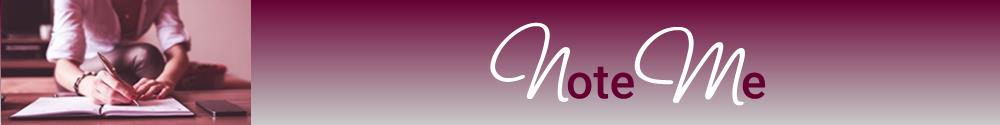
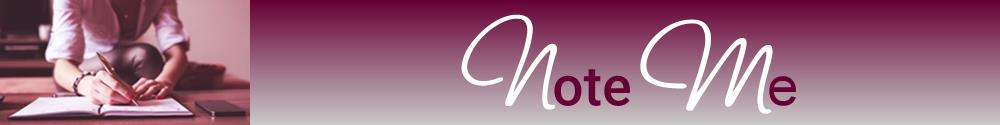
Design Report Generator angepasst + Header

diff --git a/war/Report.html b/war/Report.html
@@ -5,7 +5,7 @@
     <title>NoteMEReport</title>
     <script type="text/javascript" language="javascript" src="ReportGenerator/ReportGenerator.nocache.js"></script>
     <link type ="text/css" rel="stylesheet" href="IT_Projekt.css">
-     <link href="https://fonts.googleapis.com/css?family=Roboto" rel="stylesheet">
+    <link href="https://fonts.googleapis.com/css?family=Roboto" rel="stylesheet">
     <link href="https://fonts.googleapis.com/icon?family=Material+Icons"
       rel="stylesheet">
   </head>
@@ -19,13 +19,13 @@
       </div>
     </noscript>
     
+    
     <div id="layout">
-		<div id="header"><img src="Header.jpg"><h1>NoteME-Report</h1></div>
+		<div id="reportHeader"><img src="ReportHeader.jpg"></div>
 		<div id="menu"></div>
 		<div id="main"></div>
-		<!-- <div id="Details"></div>-->
+		<!--  <div id="Trailer">Copyright Gruppe 7 - Hochschule der Medien, Stuttgart</div> -->
 	</div>
-   
     
   </body>
 </html>

diff --git a/war/WEB-INF/Report.css b/war/WEB-INF/Report.css
@@ -186,11 +186,21 @@ div#menu {
 	margin-left: 33px;
 	position: absolute;
 	/* overflow: scroll; */
-	/* height: 300px;
-	height: 325px;*/
-	height: 350px;
+	/* height: 300px;*/
+	height: 325px;
 	width: 187px;
 	/*padding: 10px;*/
+	float: left;
+	font-color: #2E8B57;
+	background-color: #ffffff;
+	font-size: 17px;
+}
+
+div#menu2 {
+	margin-left: 33px;
+	position: absolute;
+	height: 325px;
+	width: 187px;
 	float: left;
 	font-color: #2E8B57;
 	background-color: #ffffff;

diff --git a/src/de/hdm_stuttgart/huber/itprojekt/client/ShowReportDemo.java b/src/de/hdm_stuttgart/huber/itprojekt/client/ShowReportDemo.java
@@ -54,27 +54,27 @@ public class ShowReportDemo extends MenuView {
 		home.setStyleName("pure-menu-heading");
 		home.getElement().getStyle().setColor("#ffffff");
 		
-		Anchor showUserNotebooks = new Anchor("UserNotebooks");
+		//Anchor showUserNotebooks = new Anchor("UserNotebooks");
 		Anchor showAllNotebooks = new Anchor("AllNotebooks");
-		Anchor showUserNotes = new Anchor("UserNotes");
+		//Anchor showUserNotes = new Anchor("UserNotes");
 		Anchor showAllNotes = new Anchor("AllNotes");
-		Anchor showUserPermissions = new Anchor("UserPermissions");
+		//Anchor showUserPermissions = new Anchor("UserPermissions");
 		Anchor showAllPermissions = new Anchor("AllPermissions");
 
-		showUserNotebooks.setStyleName("pure-menu-link");
-		menuList.add(new ListItemWidget(showUserNotebooks));
+//		showUserNotebooks.setStyleName("pure-menu-link");
+//		menuList.add(new ListItemWidget(showUserNotebooks));
 
 		showAllNotebooks.setStyleName("pure-menu-link");
 		menuList.add(new ListItemWidget(showAllNotebooks));
 
-		showUserNotes.setStyleName("pure-menu-link");
-		menuList.add(new ListItemWidget(showUserNotes));
+//		showUserNotes.setStyleName("pure-menu-link");
+//		menuList.add(new ListItemWidget(showUserNotes));
 
 		showAllNotes.setStyleName("pure-menu-link");
 		menuList.add(new ListItemWidget(showAllNotes));
 
-		showUserPermissions.setStyleName("pure-menu-link");
-		menuList.add(new ListItemWidget(showUserPermissions));
+//		showUserPermissions.setStyleName("pure-menu-link");
+//		menuList.add(new ListItemWidget(showUserPermissions));
 
 		showAllPermissions.setStyleName("pure-menu-link");
 		menuList.add(new ListItemWidget(showAllPermissions));
@@ -84,13 +84,13 @@ public class ShowReportDemo extends MenuView {
 		menu.add(pureMenu);
 		RootPanel.get("menu").add(menu);
 
-		showUserNotebooks.addClickHandler(new ClickHandler() {
-
-			@Override
-			public void onClick(ClickEvent event) {
-				reportGenerator.createAllUserNotebooksR(new GenericReportCallback<AllUserNotebooksR>());
-			}
-		});
+//		showUserNotebooks.addClickHandler(new ClickHandler() {
+//
+//			@Override
+//			public void onClick(ClickEvent event) {
+//				reportGenerator.createAllUserNotebooksR(new GenericReportCallback<AllUserNotebooksR>());
+//			}
+//		});
 
 		showAllNotebooks.addClickHandler(new ClickHandler() {
 
@@ -100,15 +100,17 @@ public class ShowReportDemo extends MenuView {
 			}
 
 		});
-		showUserNotes.addClickHandler(new ClickHandler() {
-
-			@Override
-			public void onClick(ClickEvent event) {
-				reportGenerator.createAllUserNotesR(new GenericReportCallback<AllUserNotesR>());
-
-			}
-
-		});
+		
+//		showUserNotes.addClickHandler(new ClickHandler() {
+//
+//			@Override
+//			public void onClick(ClickEvent event) {
+//				reportGenerator.createAllUserNotesR(new GenericReportCallback<AllUserNotesR>());
+//
+//			}
+//
+//		});
+		
 		showAllNotes.addClickHandler(new ClickHandler() {
 
 			@Override
@@ -118,16 +120,18 @@ public class ShowReportDemo extends MenuView {
 			}
 
 		});
-		showUserPermissions.addClickHandler(new ClickHandler() {
-
-			@Override
-			public void onClick(ClickEvent event) {
-				reportGenerator.createAllUserPermissionsR(new GenericReportCallback<AllUserPermissionsR>());
-				;
-
-			}
-
-		});
+		
+//		showUserPermissions.addClickHandler(new ClickHandler() {
+//
+//			@Override
+//			public void onClick(ClickEvent event) {
+//				reportGenerator.createAllUserPermissionsR(new GenericReportCallback<AllUserPermissionsR>());
+//				;
+//
+//			}
+//
+//		});
+		
 		showAllPermissions.addClickHandler(new ClickHandler() {
 
 			@Override
